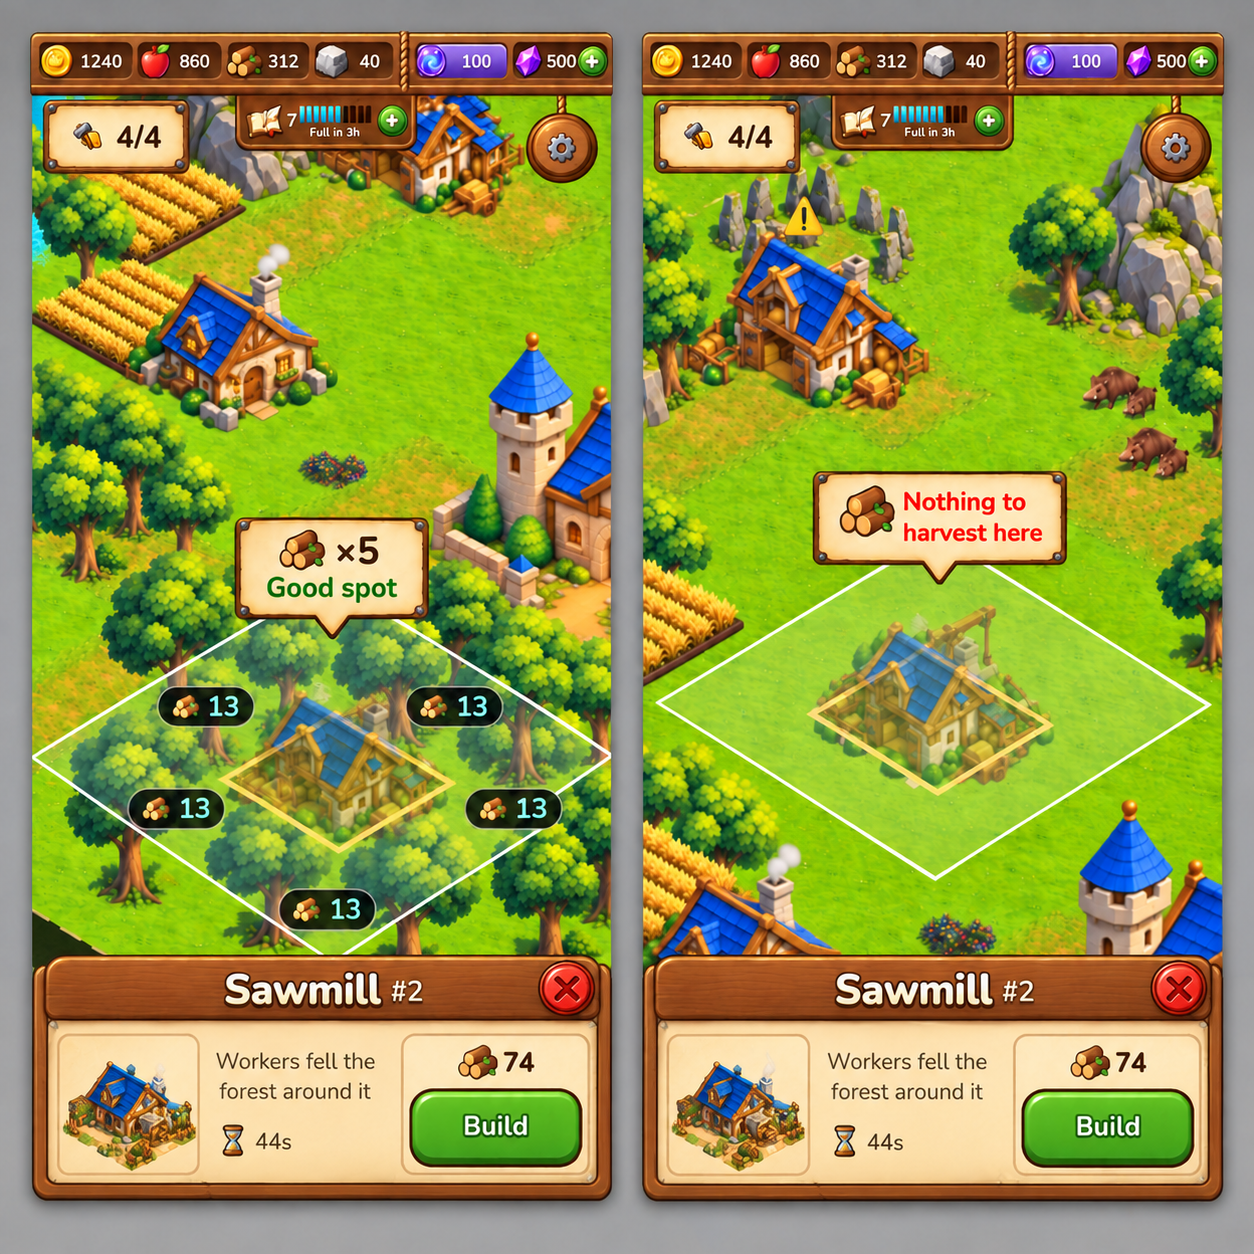
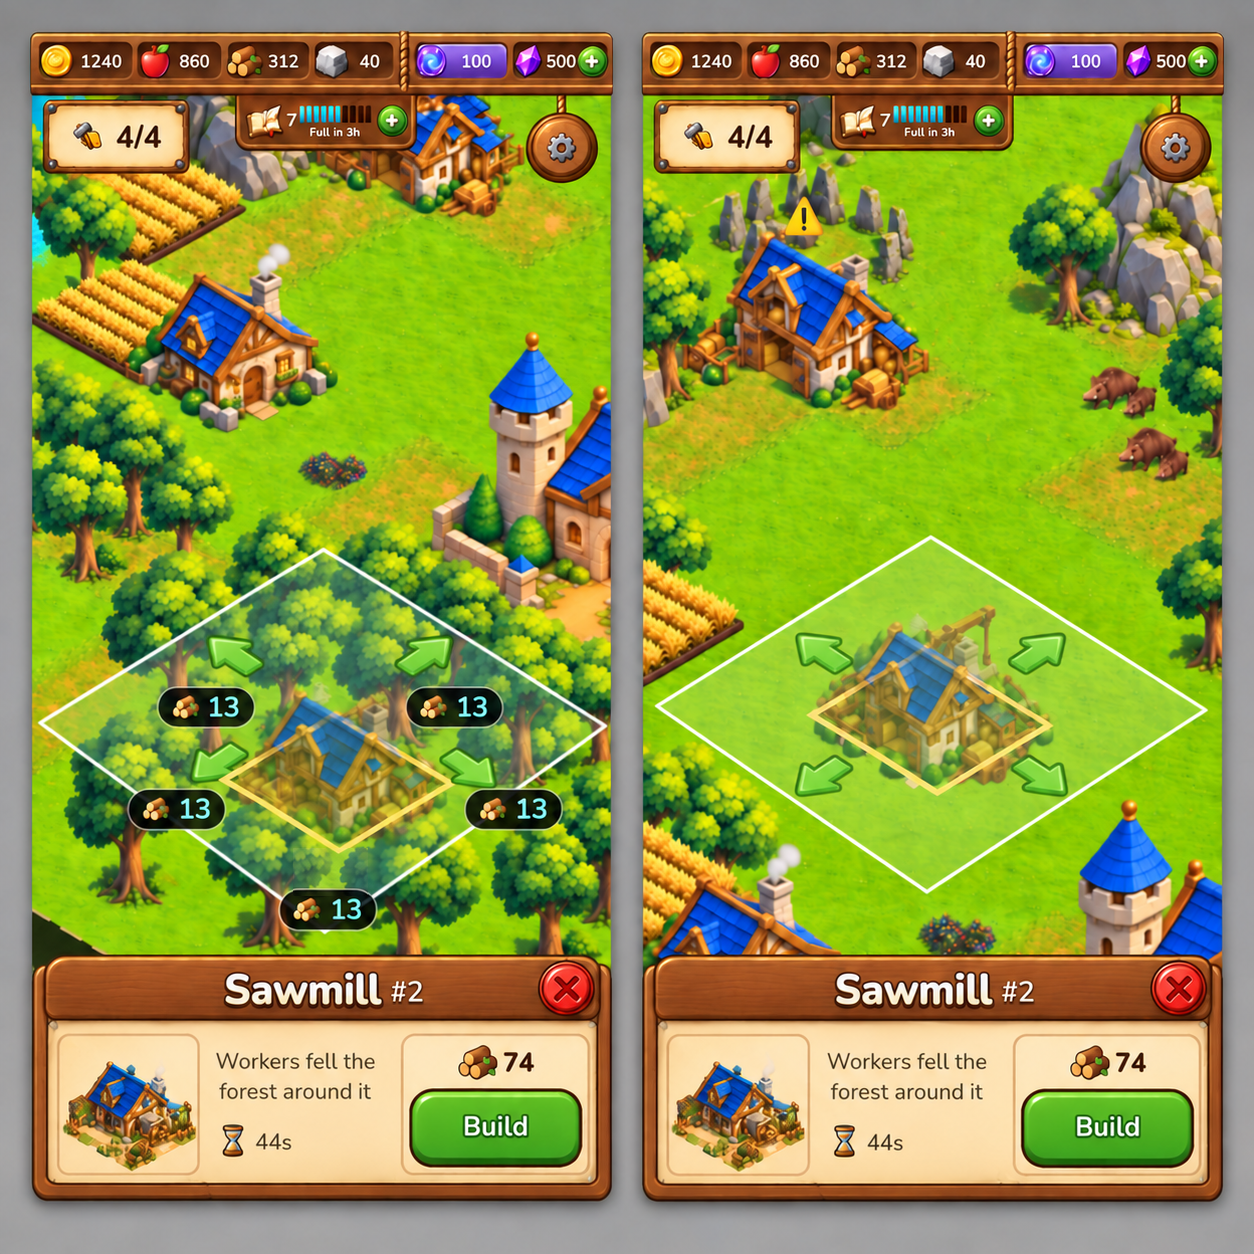
art(mockups): placement drops the verdict tag; green arrows on the grid's axes say where the ghost can go

diff --git a/Docs/art/ui-menus-redesign.md b/Docs/art/ui-menus-redesign.md
@@ -992,21 +992,18 @@ Reference: `mockups/m49-placement.png`.
 
 - The camera centres on the legal cell closest to the Townhall and the ghost
   appears there.
-- The ghost is the building half-transparent on its footprint, over its
-  **area of influence** in soft leaf-green; captured resource cells are lit,
-  the rest dimmed, each captured cell labelled with its depot
+- The ghost is the building half-transparent on its footprint, outlined in
+  gold, inside its **reach** drawn as one thin white line; each captured
+  cell is labelled with its depot
   ([`../features/05-city-and-districts.md`](../features/05-city-and-districts.md)
   §4.1).
-- Over the ghost, a floating parchment tag with the **verdict**, changing live:
-
-  | Building | Tag |
-  |---|---|
-  | Harvester, ≥ 3 captured | `🌲 ×4` · *Good spot* (leaf) |
-  | Harvester, 1–2 captured | `🌲 ×2` · *Thin pickings* (clay) |
-  | Harvester, none | *Nothing to harvest here* (clay) |
-  | Decoration | `+N Harmony` |
-  | Anything else | No tag |
-
+- **Move arrows**: four green arrows on the ground round the ghost's
+  footprint, one per side, pointing outward along the isometric grid's axes.
+  An arrow shows only where the next cell that way is legal. They bob gently
+  outward along their axis (none under reduced motion), and hide while the
+  ghost is held.
+- No verdict: the depot labels on the captured cells are the whole reading
+  of a spot.
 - Only the Docks outline their legal cells.
 - Gestures (§4.3 of the city doc): drag the ghost to carry it; tap a legal
   cell to send it there; a drag that starts off the ghost pans the camera.
